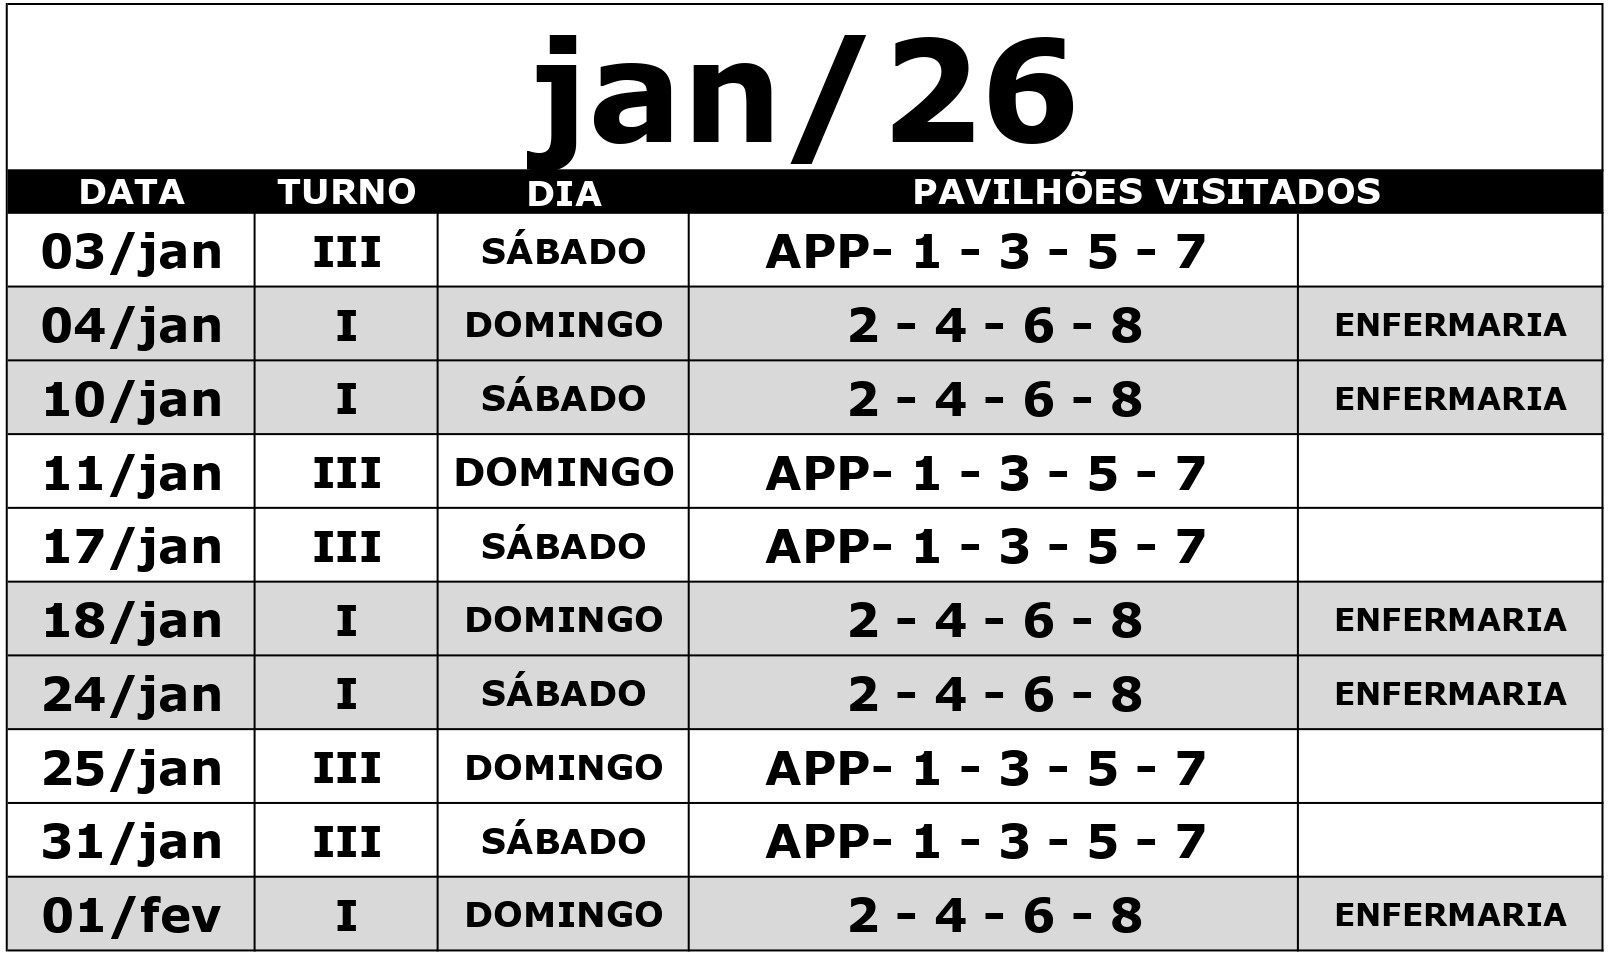
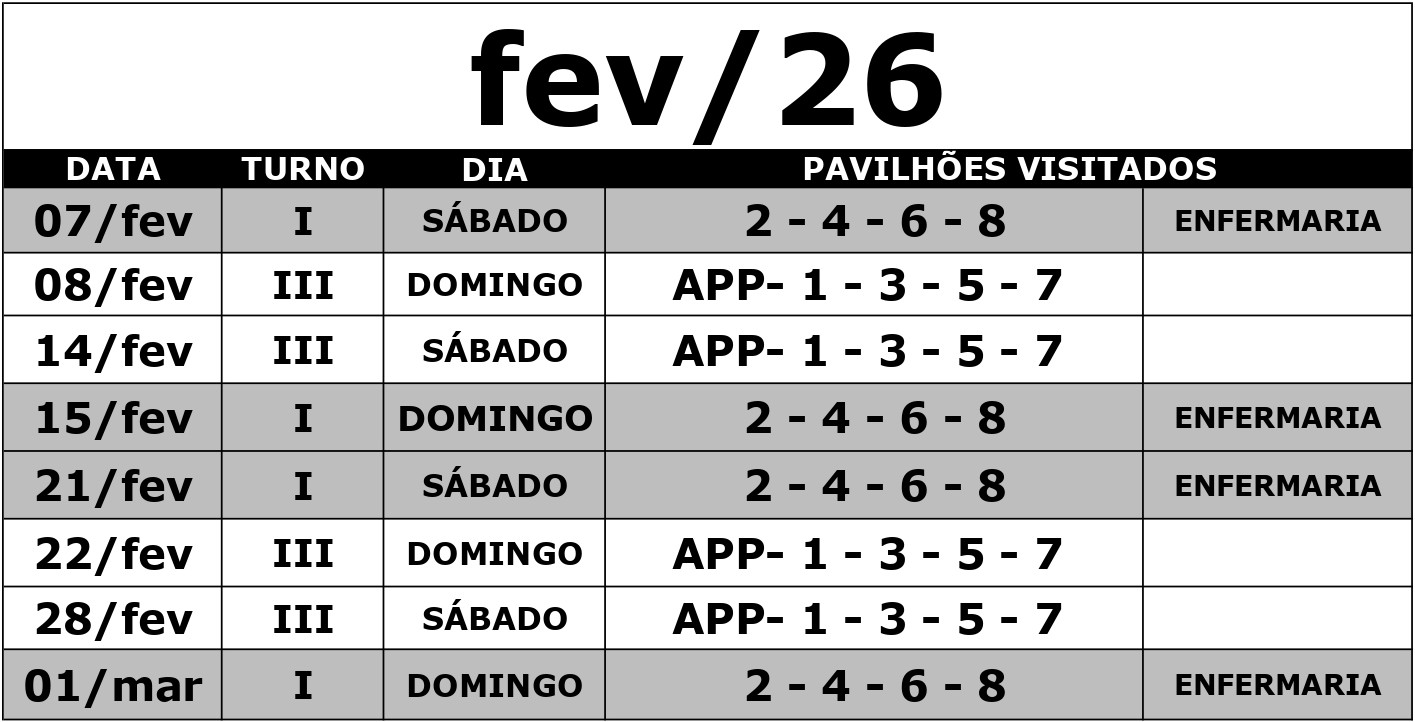
commit calendario fev 2026

diff --git a/calendario.html b/calendario.html
@@ -39,7 +39,7 @@
       <section>
         <h2>Calendário de Visitação</h2>
         <img src="imagens/calendario.jpg" alt="Calendário de Visitação">
-        <p style="text-align: center;">Atualizado dia 30/12/2025</p>
+        <p style="text-align: center;">Atualizado dia 06/02/2026</p>
         <!--<p style="color: red; font-weight: bold; text-align: center;">DEVIDO AS ELEIÇÕES, A VISITAÇÃO DO DIA 02/10/2022 TERÁ SEU HORÁRIO ALERADO. DAS 10H ÀS 16H.</p>-->
       </section>
     </main>

diff --git a/index.html b/index.html
@@ -61,7 +61,7 @@
       <section>
         <h2>Últimas Informações</h2>
         <section>
-          <p>Calendário de visitação de janeiro de 2026</p>
+          <p>Calendário de visitação de fevereiro de 2026</p>
           <img src="imagens/calendario.jpg" alt="Informações sobre o Calendário">
         </section>
         <!--<section>
